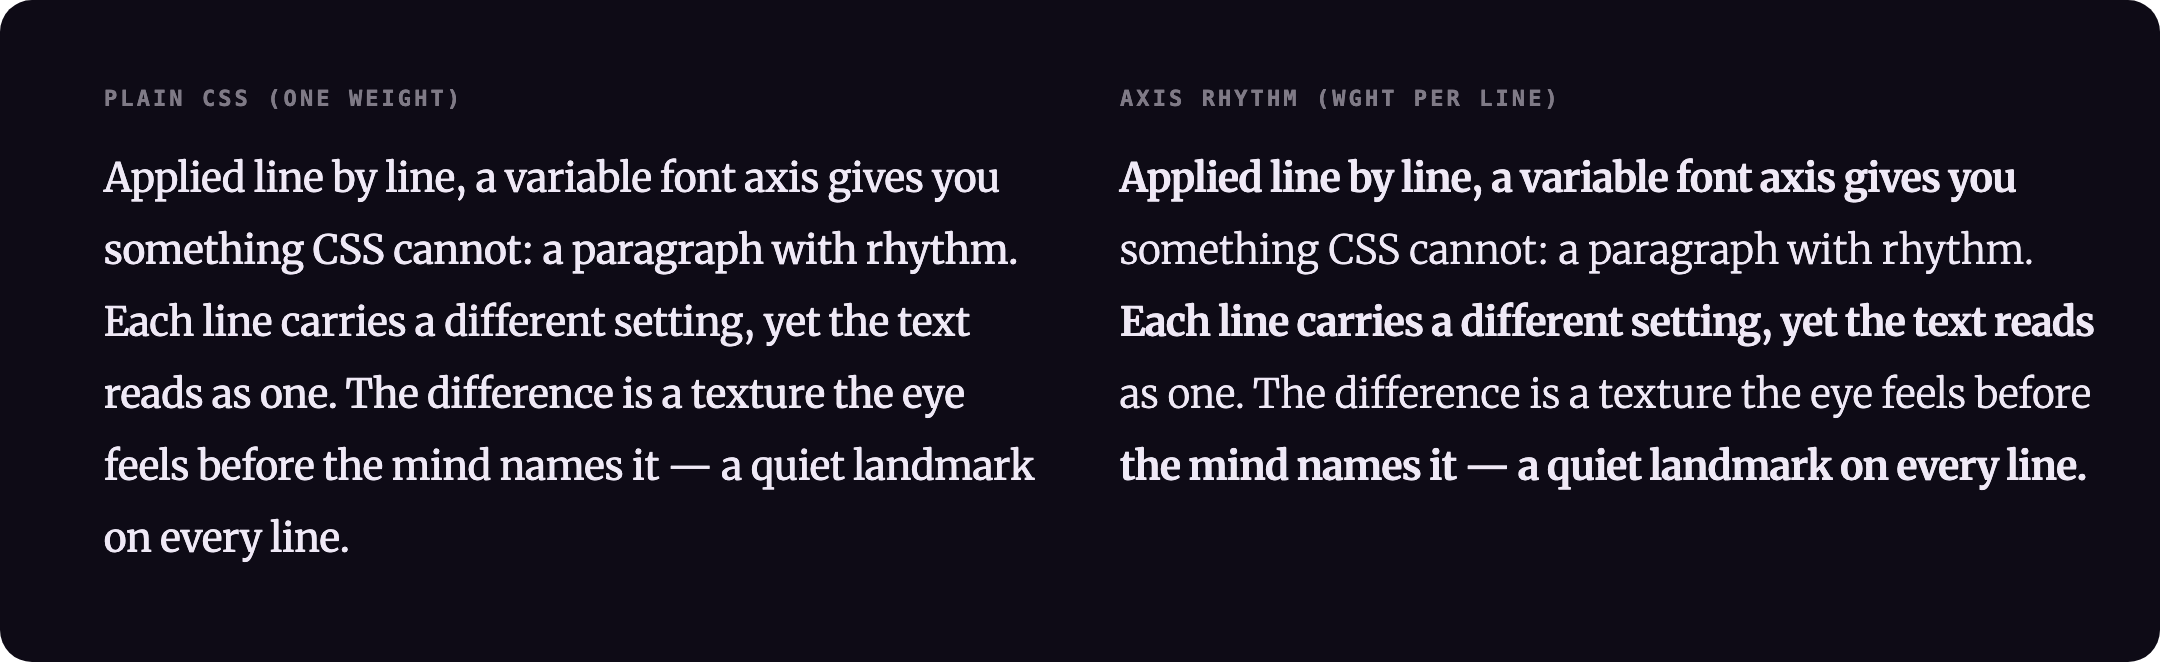
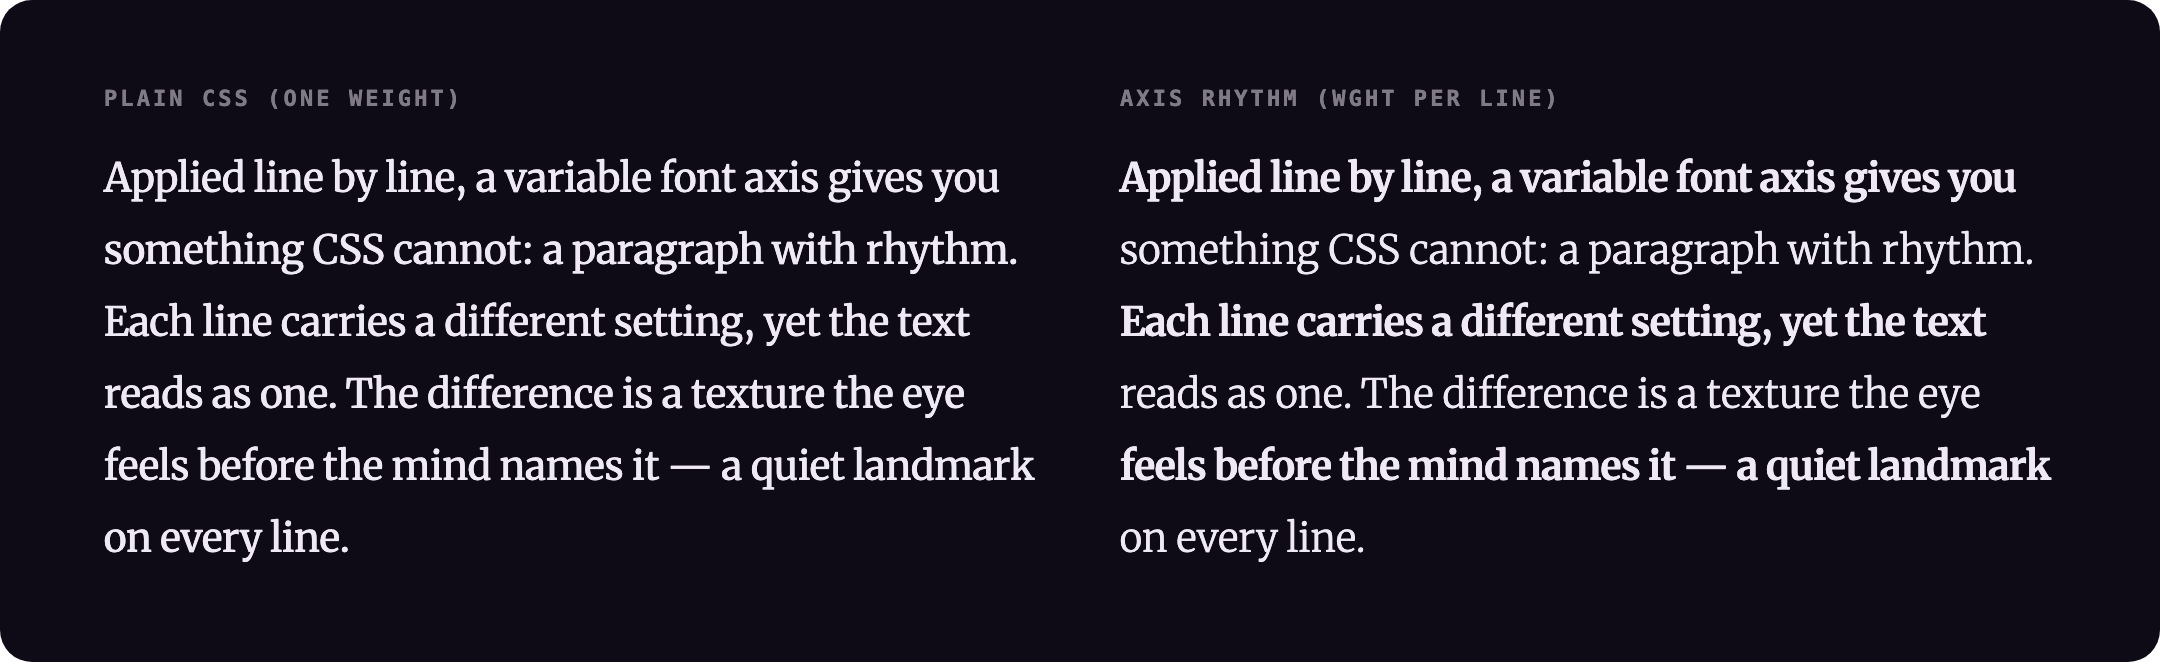
README: measured preservation figure, React and App Router examples, scripts, cost and body-text notes
Regenerates the README images from the current build (the capture page now uses the React-free core bundle; it no longer loaded with the old React stub) and adds a linePreservation comparison whose numbers the harness measures and prints. Replaces the stale bundle size with measured ones.

diff --git a/scripts/capture.html b/scripts/capture.html
@@ -30,6 +30,10 @@
 			   line never reaches the card edge (linePreservation keeps lines
 			   nowrap, so the widest line drives layout width). */
 			#hero .sample { max-width: 880px; }
+			/* Preservation scene: narrower type, and a dashed rule on the column's right edge so overflow shows. */
+			#preservation .col { gap: 56px; }
+			#preservation .sample { font-size: 17px; line-height: 1.7; border-right: 1px dashed rgba(239, 233, 246, 0.45); font-variation-settings: "wght" 300, "opsz" 17, "wdth" 100; }
+			.note { font: 500 12px/1.4 ui-monospace, SFMono-Regular, Menlo, monospace; opacity: 0.65; margin-top: 16px; }
 			.lbl {
 				font: 600 11px/1 ui-monospace, SFMono-Regular, Menlo, monospace;
 				letter-spacing: 0.14em;
@@ -48,21 +52,9 @@
 	</head>
 	<body>
 		<div id="stage"></div>
-		<!-- The built bundle statically re-exports the React layer, so the browser
-		     must resolve the bare "react" specifiers even though we only use the
-		     vanilla functions. Stub them with empty modules — never invoked here. -->
-		<script type="importmap">
-			{
-				"imports": {
-					"react": "data:text/javascript,export default {};export const useRef=()=>({});export const useCallback=(f)=>f;export const useLayoutEffect=()=>{};export const useEffect=()=>{};export const forwardRef=(f)=>f;",
-					"react-dom": "data:text/javascript,export default {};",
-					"react/jsx-runtime": "data:text/javascript,export const jsx=()=>null;export const jsxs=()=>null;export const Fragment={};"
-				}
-			}
-		</script>
 		<script type="module">
-			// Mount the real, built package (vanilla entry — no React needed).
-			import { applyAxisRhythm, getCleanHTML } from "/dist/index.js";
+			// Mount the real, built package through its React-free entry (@overpunch/axisrhythm/core).
+			import { applyAxisRhythm, getCleanHTML } from "/dist/core.js";
 
 			const COPY = `Applied line by line, a variable font axis gives you something CSS cannot: a paragraph with rhythm. Each line carries a different setting, yet the text reads as one. The difference is a texture the eye feels before the mind names it — a quiet landmark on every line.`;
 
@@ -86,7 +78,30 @@
 						{ label: "axis rhythm (wght per line)", cfg: { axis: "wght", values: [640, 300], period: 2, linePreservation: "spacing" } },
 					],
 				},
+				{
+					id: "preservation",
+					bg: "#0e0b16",
+					fg: "#efe9f6",
+					// Same text, same axis values, the three linePreservation modes. measure: true writes the
+					// measured overflow under each pane and into window.__measurements.
+					panes: ["none", "spacing", "scale"].map((mode) => ({
+						label: `linePreservation: '${mode}'`,
+						measure: true,
+						cfg: { axis: "wght", values: [900, 300], period: 2, linePreservation: mode },
+					})),
+				},
 			];
+
+			/** Left and right edge of each line (the union of its .ar-line runs), by line index. */
+			function lineEdges(p) {
+				const lines = new Map();
+				p.querySelectorAll(".ar-line").forEach((run) => {
+					const r = run.getBoundingClientRect();
+					const cur = lines.get(run.dataset.arLine) ?? { left: Infinity, right: -Infinity };
+					lines.set(run.dataset.arLine, { left: Math.min(cur.left, r.left), right: Math.max(cur.right, r.right) });
+				});
+				return [...lines.values()];
+			}
 
 			const stage = document.getElementById("stage");
 			for (const scene of SCENES) {
@@ -116,6 +131,8 @@
 					col.appendChild(wrap);
 					// Stash the element + its options for the post-font-load pass.
 					p.__cfg = pane.cfg;
+					p.__measure = pane.measure;
+					p.__scene = scene.id;
 				}
 				stage.appendChild(el);
 			}
@@ -123,6 +140,7 @@
 			// Apply only after the variable font is actually ready, so line
 			// detection measures the real glyph metrics (per the library's own
 			// document.fonts.ready guidance).
+			window.__measurements = [];
 			window.__ready = (async () => {
 				await document.fonts.ready;
 				// Force the face to load by laying out a sample.
@@ -130,7 +148,32 @@
 					const cfg = p.__cfg;
 					if (!cfg) return; // plain-CSS pane stays untouched
 					const original = getCleanHTML(p);
+					if (!p.__measure) { applyAxisRhythm(p, original, cfg); return; }
+
+					// Natural line lengths: the same lines with every line at the paragraph's own axis value.
+					const base = Number(/"wght" (\d+)/.exec(getComputedStyle(p).fontVariationSettings)?.[1] ?? 400);
+					applyAxisRhythm(p, original, { ...cfg, values: [base, base], linePreservation: "none" });
+					const natural = lineEdges(p).map((l) => l.right - l.left);
 					applyAxisRhythm(p, original, cfg);
+					const edges = lineEdges(p);
+					const cs = getComputedStyle(p);
+					const box = p.getBoundingClientRect();
+					const columnRight = box.right - parseFloat(cs.borderRightWidth) - parseFloat(cs.paddingRight);
+					const overflow = Math.max(0, ...edges.map((l) => l.right - columnRight));
+					const drift = Math.max(...edges.map((l, i) => Math.abs(l.right - l.left - natural[i])));
+					const m = { scene: p.__scene, mode: cfg.linePreservation, lines: edges.length, columnPx: +(columnRight - box.left).toFixed(1), maxOverflowPx: +overflow.toFixed(2), maxLineLengthChangePx: +drift.toFixed(2) };
+					// Cost of one full apply (reset, measure lines, style them), median of 25 runs on this paragraph.
+					const times = [];
+					for (let k = 0; k < 25; k++) { const t0 = performance.now(); applyAxisRhythm(p, original, cfg); p.getBoundingClientRect(); times.push(performance.now() - t0); }
+					times.sort((x, y) => x - y);
+					m.words = original.trim().split(/\s+/).length;
+					m.applyMsMedian = +times[12].toFixed(2);
+					m.applyMsMax = +times[24].toFixed(2);
+					window.__measurements.push(m);
+					const note = document.createElement("div");
+					note.className = "note";
+					note.textContent = `line lengths change by up to ${m.maxLineLengthChangePx.toFixed(1)} px · ${m.maxOverflowPx > 0.5 ? m.maxOverflowPx.toFixed(1) + " px past the column" : "inside the column"}`;
+					p.after(note);
 				});
 			})();
 		</script>

diff --git a/README.md b/README.md
@@ -4,11 +4,11 @@
 
 CSS applies `font-variation-settings` to the whole element — every line gets the same axis value. Axis Rhythm works line by line, cycling any OpenType axis through a sequence of values across paragraph lines. The result is a texture the eye reads as rhythm, not noise. Like column highlighting for text.
 
-![A paragraph where the font weight axis alternates line by line — odd lines bold, even lines light — yet the text reads as a single block](https://raw.githubusercontent.com/over-punch/AxisRhythm/main/assets/hero.png?v=1)
+![A paragraph where the font weight axis alternates line by line — odd lines bold, even lines light — yet the text reads as a single block](https://raw.githubusercontent.com/over-punch/AxisRhythm/main/assets/hero.png?v=2)
 
 **[axisrhythm.com](https://axisrhythm.com)** · [npm](https://www.npmjs.com/package/@overpunch/axisrhythm) · [GitHub](https://github.com/over-punch/AxisRhythm)
 
-TypeScript · Zero runtime dependencies · ~4.8 kB gzipped · React optional · Vanilla JS
+TypeScript · Zero runtime dependencies · 6.6 kB gzipped (vanilla), 8.4 kB with the React component · React optional · Vanilla JS
 
 ---
 
@@ -56,6 +56,33 @@ import { AxisRhythmText } from '@overpunch/axisrhythm'
 
 `linePreservation="spacing"` prevents line overflow by compensating each line's width with letter-spacing. For display or headline text where overflow is acceptable (or part of the effect), omit it or set `linePreservation="none"`.
 
+In the App Router, put it in a client component and use that from your page:
+
+```tsx
+// components/RhythmParagraph.tsx
+"use client"
+import type { ReactNode } from 'react'
+import { AxisRhythmText } from '@overpunch/axisrhythm'
+
+export function RhythmParagraph({ children }: { children: ReactNode }) {
+  return (
+    <AxisRhythmText className="rhythm" axis="wght" values={[460, 380]} period={2} linePreservation="spacing">
+      {children}
+    </AxisRhythmText>
+  )
+}
+```
+
+Add `animate` for the moving wave (`waveShape` and `speed` tune it):
+
+```tsx
+<AxisRhythmText axis="wght" values={[300, 700]} period={4} linePreservation="spacing" animate speed={0.5}>
+  Your paragraph text here...
+</AxisRhythmText>
+```
+
+The component and the hook clean up after themselves: the animation stops and observers disconnect on unmount. When the children change, the component re-measures the new text.
+
 ### React hook
 
 ```tsx
@@ -66,14 +93,15 @@ const ref = useAxisRhythm({ axis: 'wdth', values: [100, 88], period: 2 })
 return <p ref={ref}>{children}</p>
 ```
 
-The hook re-runs automatically on resize via `ResizeObserver` and after fonts load via `document.fonts.ready`.
+The hook re-runs automatically on resize via `ResizeObserver` and after fonts load via `document.fonts.ready`. It re-measures when the element's width changes, in static and animated mode (an animation restarts from the beginning of its cycle).
 
 ### Vanilla JS
 
 ```ts
 import { applyAxisRhythm, startAxisRhythm, removeAxisRhythm, getCleanHTML } from '@overpunch/axisrhythm'
 
-const el = document.querySelector('p')
+const el = document.querySelector('p')   // in TypeScript: querySelector<HTMLElement>('p')!
+// Take the snapshot once, before the first apply; pass the same string to every later call.
 const original = getCleanHTML(el)
 const opts = { axis: 'wdth', values: [100, 88], period: 2 }
 
@@ -114,7 +142,7 @@ const opts: AxisRhythmOptions = { axis: 'wdth', values: [100, 88], period: 2 }
 | `period` | `2` | Lines per cycle. Set equal to `values.length` — if smaller, trailing values are never reached; if larger, values repeat within the cycle |
 | `align` | `'top'` | `'top' \| 'bottom' \| 'end'`. `'top'` counts from the first line; `'bottom'` counts from the last; `'end'` is direction-aware — equivalent to `'bottom'` in LTR text and `'top'` in RTL text |
 | `lineDetection` | `'bcr'` | `'bcr'` reads actual browser layout — ground truth, works with any font and inline HTML. `'canvas'` uses `@chenglou/pretext` for arithmetic line breaking with no forced reflow on resize (`npm install @chenglou/pretext`). Falls back to `'bcr'` while pretext loads |
-| `linePreservation` | `'none'` | `'none'` — no compensation; line widths vary with the axis value (best for display type where reflow is part of the effect). `'spacing'` — adjusts letter-spacing per line to match natural widths; prevents overflow; **recommended for body text**. `'scale'` — applies a GPU scaleX transform per line; no letter-spacing changes, slight horizontal glyph compression at large axis ranges |
+| `linePreservation` | `'none'` | `'none'` — no compensation; line widths vary with the axis value (best for display type where reflow is part of the effect). `'spacing'` — adjusts letter-spacing per line to match natural widths; prevents overflow; **recommended for body text**. `'scale'` — applies a GPU scaleX transform per line; no letter-spacing changes, slight horizontal glyph compression at large axis ranges. For Arabic and other joined scripts use `'scale'` (see [Scripts](#how-it-works)) |
 | `source` | `'fixed'` | `'fixed'` — cycle through `values` in order. `'syllable-density'` — per-line syllable density drives the axis value; `values[0]` → simplest lines, `values[last]` → most complex. Requires the optional `syllable` package: `npm install syllable` |
 | `animate` | `false` | Turn the static snapshot into a continuous ambient wave via `startAxisRhythm`. Each line is offset in phase so the wave drifts across the paragraph over time |
 | `waveShape` | `'sine'` | Wave shape for animated mode: `'sine'` (smooth), `'triangle'` (linear in/out), `'spring'` (sine with slight overshoot) |
@@ -127,9 +155,13 @@ const opts: AxisRhythmOptions = { axis: 'wdth', values: [100, 88], period: 2 }
 
 ## How it works
 
-![Side by side: the same paragraph set in plain CSS at one weight, versus Axis Rhythm cycling the weight axis line by line — both read as a single block, but the right pane carries a per-line texture](https://raw.githubusercontent.com/over-punch/AxisRhythm/main/assets/before-after.png?v=1)
+![Side by side: the same paragraph set in plain CSS at one weight, versus Axis Rhythm cycling the weight axis line by line — both read as a single block, but the right pane carries a per-line texture](https://raw.githubusercontent.com/over-punch/AxisRhythm/main/assets/before-after.png?v=2)
 
-The algorithm detects visual lines by measuring word span positions with `getBoundingClientRect()`, then styles each line with its own `font-variation-settings`: the line's text is wrapped in `.ar-line` spans in place (one per element the line passes through, all with the same `data-ar-line` index), and a `<br>` at the start of each line keeps the lines where they fall. The injected value overrides only the target axis — all other axes set on the parent element are preserved by reading and patching the computed `fontVariationSettings` string before writing. Runs on mount and on every resize via `ResizeObserver`. Re-runs when fonts finish loading (`document.fonts.ready`). Under `prefers-reduced-motion: reduce` the static texture is kept and only the animation (`startAxisRhythm`) is skipped; turning the setting on mid-animation stops it and leaves the static texture.
+![The same paragraph three times with the weight axis alternating 900 and 300 on a 300 base: with linePreservation 'none' line lengths change by up to 22.6 px and one line passes the dashed column edge by 3.1 px; with 'spacing' and 'scale' every line keeps its length and stays inside the column](https://raw.githubusercontent.com/over-punch/AxisRhythm/main/assets/preservation.png?v=1)
+
+*`linePreservation` on a 287 px column (Merriweather 17 px, `wght` 900 / 300 per line on a 300 base, headless Chromium, `npm run capture`): with `'none'` line lengths change by up to 22.6 px and the widest line ends 3.1 px past the column; with `'spacing'` they change by 0.0 px and with `'scale'` by 0.1 px, and nothing passes the column.*
+
+The algorithm detects visual lines by measuring word span positions with `getBoundingClientRect()`, then styles each line with its own `font-variation-settings`: the line's text is wrapped in `.ar-line` spans in place (one per element the line passes through, all with the same `data-ar-line` index), and a `<br>` at the start of each line keeps the lines where they fall. The injected value overrides only the target axis — all other axes set on the parent element are preserved by reading and patching the computed `fontVariationSettings` string before writing. Runs on mount and on every resize via `ResizeObserver` (width changes only). Re-runs when fonts finish loading (`document.fonts.ready`). Under `prefers-reduced-motion: reduce` the static texture is kept and only the animation (`startAxisRhythm`) is skipped; turning the setting on mid-animation stops it and leaves the static texture.
 
 **Line break safety:** Each run starts from the original HTML, detects lines at the element's natural layout (words are measured inline, with the spaces between them left in the text flow), then locks them with `white-space: nowrap`. The axis variation doesn't move line breaks. Text without spaces between words (Chinese, Japanese, Korean, Thai) breaks between characters, as it does in normal layout.
 
@@ -139,7 +171,11 @@ The algorithm detects visual lines by measuring word span positions with `getBou
 
 **Width overflow:** Applying different axis values per line alters character widths, so lines may grow wider or narrower than the container. `linePreservation: 'none'` (default) is appropriate for display or headline type where the axis range is large and overflow is intentional. For body text — or any context where line edges must stay flush — use `linePreservation: 'spacing'` (adjusts letter-spacing to compensate) or `'scale'` (GPU scaleX transform).
 
-The `linePreservation` pass measures each line's natural width before applying the axis value, then applies axis and measures again. The delta becomes either a letter-spacing correction (`'spacing'`, added on top of any letter-spacing you've set) or a `scaleX` transform (`'scale'`) per line. While animating, each line is measured once at the lowest and highest axis values and the correction is interpolated per frame.
+The `linePreservation` pass measures each line's natural width before applying the axis value, then applies axis and measures again. The delta becomes either a letter-spacing correction (`'spacing'`, added on top of any letter-spacing you've set) or a `scaleX` transform (`'scale'`) per line. While animating, each line is measured once at the lowest and highest axis values and the correction is interpolated per frame. Both modes also hold inside an element with CSS `zoom`.
+
+**Scripts:** Japanese, Chinese, Korean and Thai wrap between characters and take the axis like any other text. Right-to-left text works too: `align: 'end'` follows the reading direction, and `'scale'` puts each line back exactly where it was, whatever the direction or `text-align`. Arabic and other joined scripts are the exception for `'spacing'`: browsers put no letter-spacing between joined letters, so it recovers only part of the width. Measured in Chromium on the site demo (Noto Sans Arabic 18 px, `wght` 700 on a 300 base, 1024 px column): the bold line ends 87.9 px past the column with `'none'`, 69.1 px with `'spacing'`, 0 px with `'scale'`. Use `'scale'` there. The font needs the axis in every script you set: Merriweather has no Japanese or Arabic glyphs, so the fallback font decides whether anything changes.
+
+**Cost:** one apply resets the element, measures every word once and styles the lines: reads are batched before writes. On the 49-word, 8-line paragraph above it took 0.5 to 0.6 ms depending on the mode (median of 25 runs each, under 2 ms worst, headless Chromium on a busy laptop, `npm run capture`). It runs once per width change, not per frame; the animation measures each line at the two ends of the range once and then only writes styles each frame. `lineDetection: 'canvas'` avoids the layout read on resize if you install `@chenglou/pretext`.
 
 ---
 
@@ -147,10 +183,24 @@ The `linePreservation` pass measures each line's natural width before applying t
 
 - **Runtime:** any browser with variable-font and `font-variation-settings` support (all current evergreen browsers). The effect is purely visual and degrades to plain text everywhere else.
 - **React is optional.** It is an optional peer dependency, needed only for the `AxisRhythmText` component and `useAxisRhythm` hook. The main entry point also exports those, so it imports `react`; without React installed, import the vanilla API from the React-free subpath: `import { applyAxisRhythm } from '@overpunch/axisrhythm/core'`.
-- **Zero runtime dependencies**, ~4.8 kB gzipped (ESM). `@chenglou/pretext` and `syllable` are optional peers, pulled in only for `lineDetection: 'canvas'` and `source: 'syllable-density'` respectively.
+- **Zero runtime dependencies.** Size, from `npm run build` and `gzip -9` on the ESM output: `dist/core.js` (the vanilla API, what `/core` gives you) 6,578 B; the default entry adds `dist/index.js`, 1,809 B, for the React hook and component. `sideEffects: false`. `@chenglou/pretext` and `syllable` are optional peers, pulled in only for `lineDetection: 'canvas'` and `source: 'syllable-density'` respectively.
 - **SSR / first paint:** line spans are computed in the browser from measured layout, so server-rendered markup ships as a plain paragraph and the rhythm appears after hydration and `document.fonts.ready`. Expect a brief flash of unstyled (un-rhythmed) text on first load; pair it with `font-display: swap`/`block`. Server-side stable spans are on the roadmap (see [Future improvements](#future-improvements)).
-- **Accessibility:** under `prefers-reduced-motion: reduce` the animation is skipped and the static per-line texture stays (it isn't motion). Line wrapping keeps the text, including its spaces, so copy-paste and screen readers get the original words. A link that wraps stays one link (except with `linePreservation: 'scale'`, see **Markup** above). The injected line breaks are not hidden from screen readers: the space before a forced break collapses, so the break is what keeps the words apart in a wrapped link's name.
+- **Accessibility:** under `prefers-reduced-motion: reduce` the animation is skipped and the static per-line texture stays (it isn't motion). Line wrapping keeps the text, including its spaces, so copy-paste and screen readers get the original words. A link that wraps stays one link (except with `linePreservation: 'scale'`, see **Markup** above). The injected line breaks are not hidden from screen readers: the space before a forced break collapses, so the break is what keeps the words apart in a wrapped link's name. On displays that report `update: slow` (e-ink), the effect is skipped and the text is left as written.
+- **Is it safe for body text?** The texture is a design choice, not a tested reading aid: nobody has measured whether it helps or hurts reading, so keep the range small for long text (the alternating lines in the images above are deliberately strong so they show at README size) and check contrast on the lightest lines. Lines are locked where they were measured and re-measured when the element's width changes, which covers window resizes and, in a fluid layout, browser zoom. A change of font size alone (text-only zoom, a user stylesheet) leaves the width the same and is not detected, so the locked lines can run past the column until the next resize; call `applyAxisRhythm` again if you change the font size yourself. Screen-reader behaviour was checked in Chromium's accessibility tree (a wrapped link is one link with one name), not with JAWS, NVDA or VoiceOver.
 - **Webflow embed:** `source: 'syllable-density'` and `lineDetection: 'canvas'` need the optional npm packages, which the script-tag embed can't load; it falls back to `'fixed'` and browser line detection.
+
+---
+
+## Development
+
+```bash
+npm install
+npm run test:run   # 80 unit tests (vitest + happy-dom)
+npm run build      # dist/ (ESM + CJS + types)
+npm run capture    # rebuilds assets/*.png from scripts/capture.html and prints the measurements quoted above
+```
+
+The demo site is in `site/` (Next.js). Bugs and questions: [github.com/over-punch/AxisRhythm/issues](https://github.com/over-punch/AxisRhythm/issues). Licence: [MIT](LICENSE).
 
 ---
 
